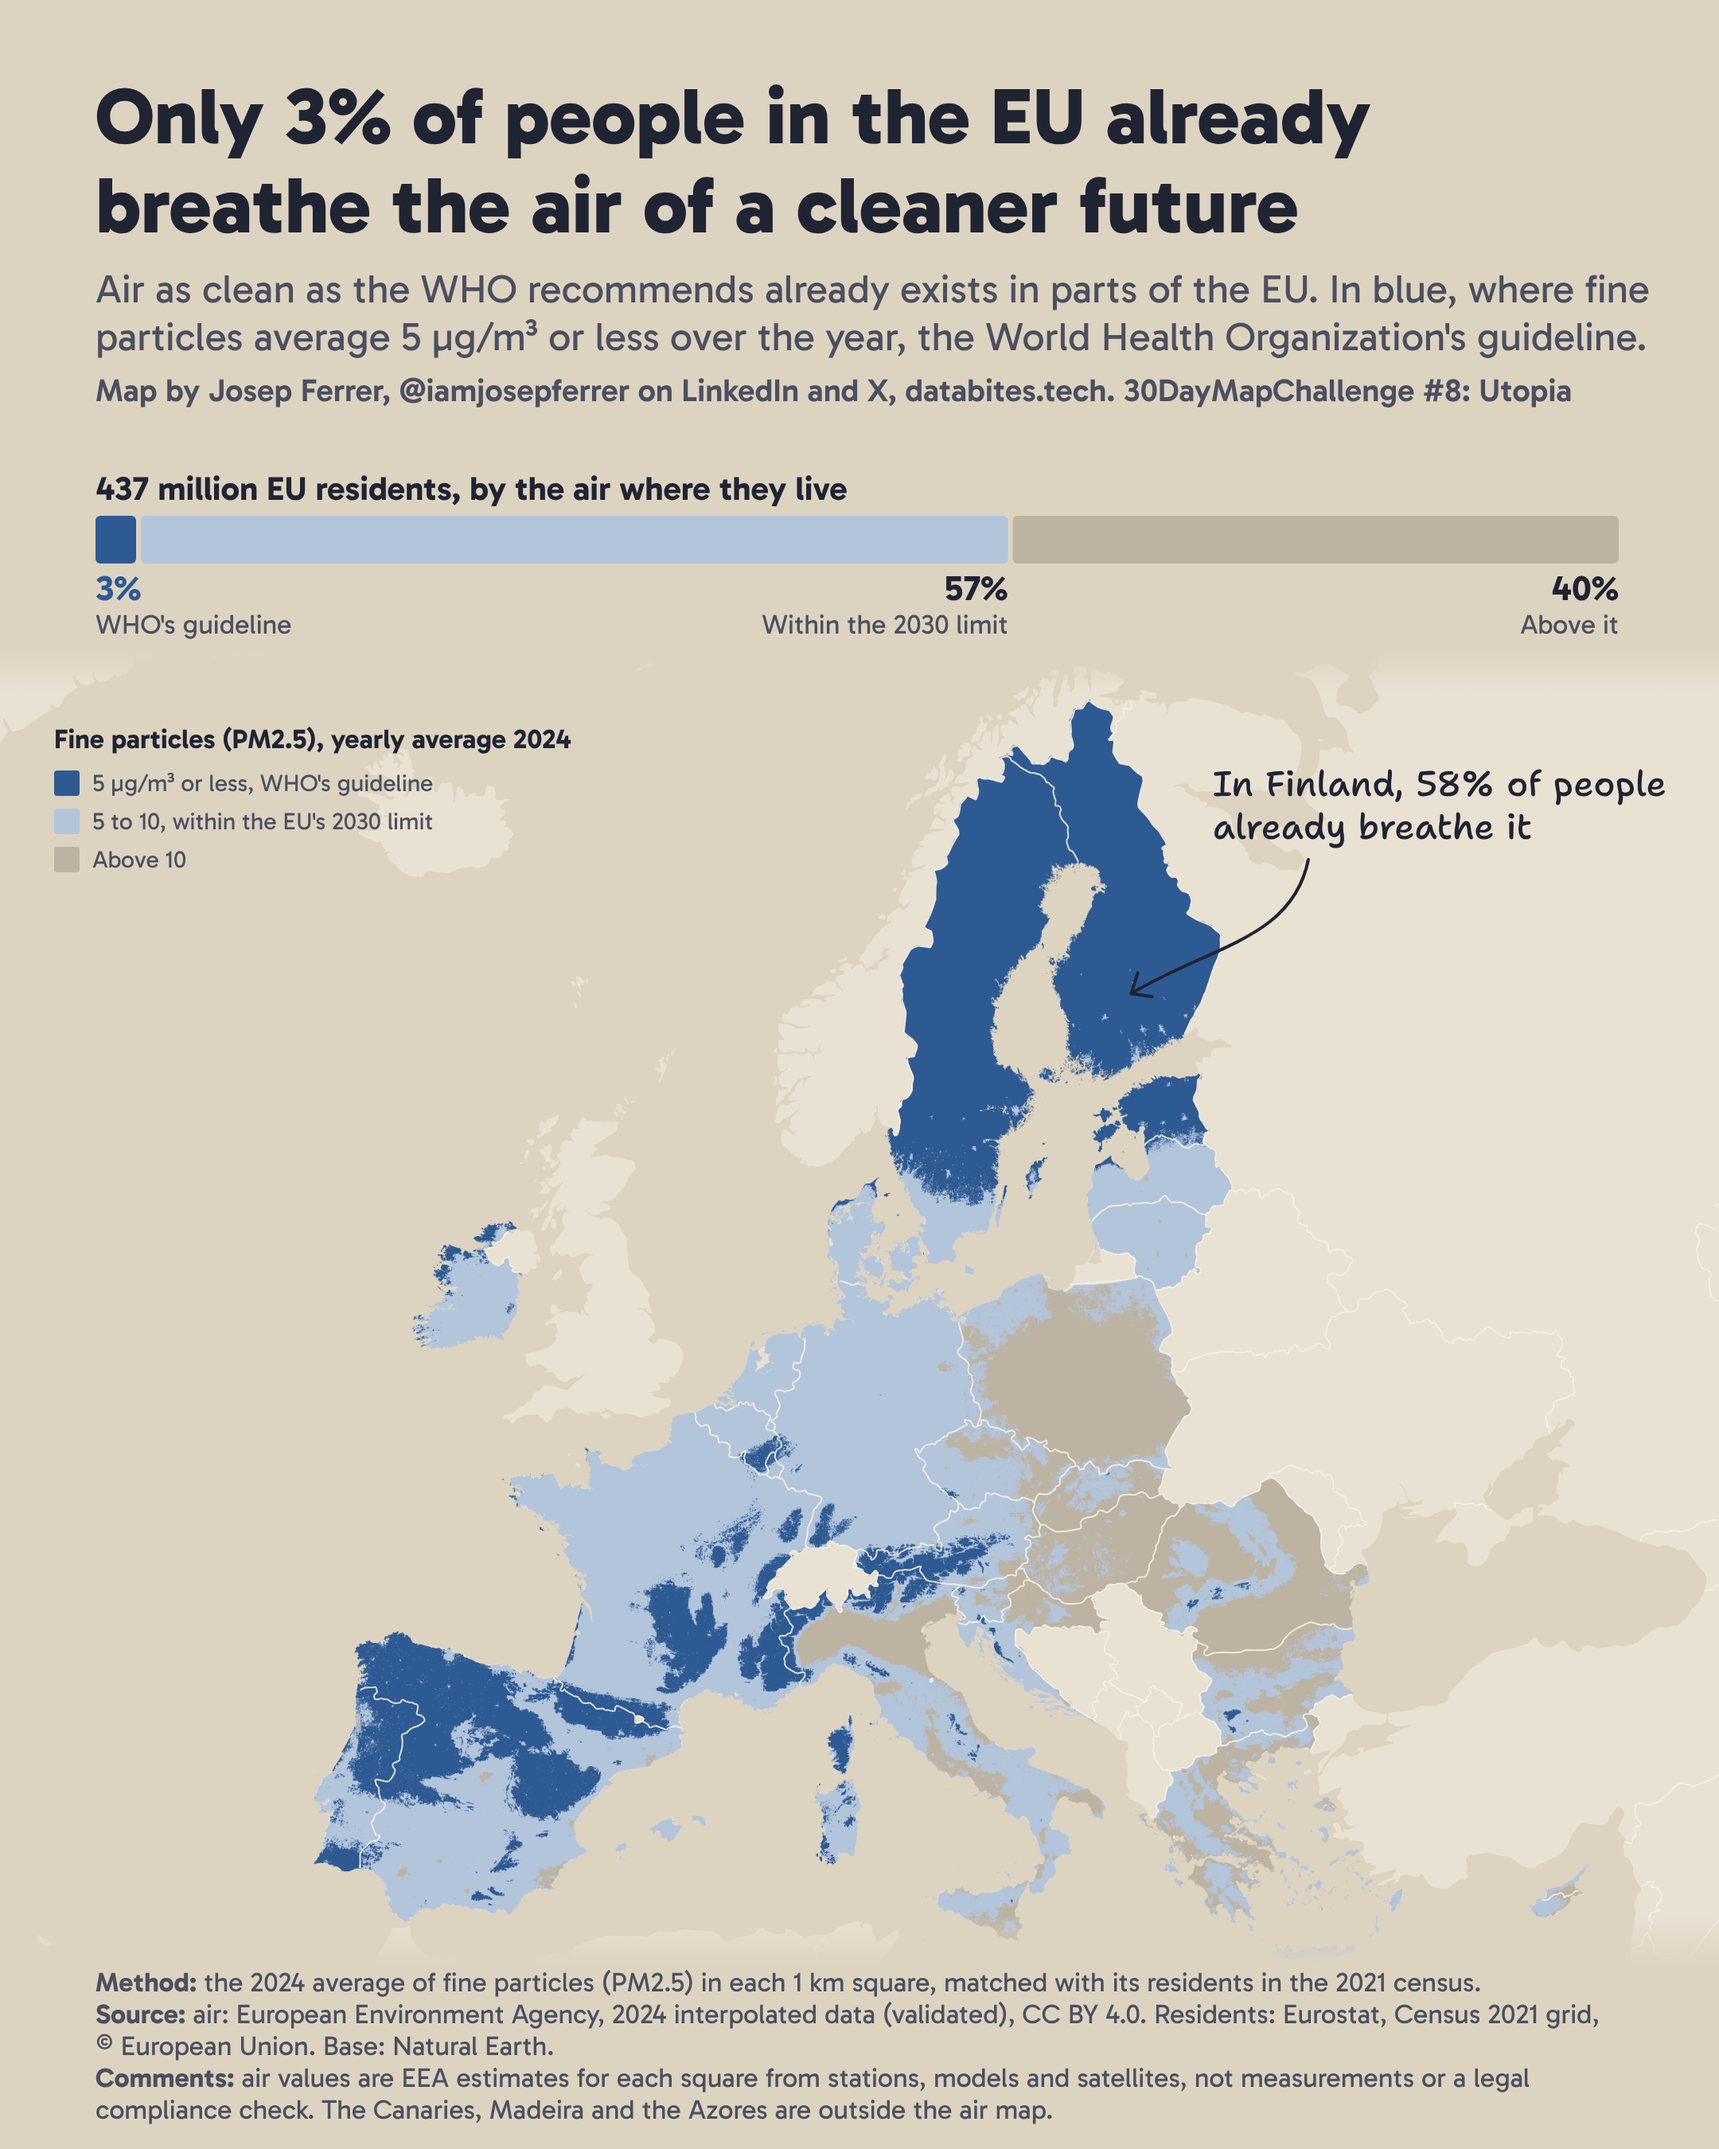
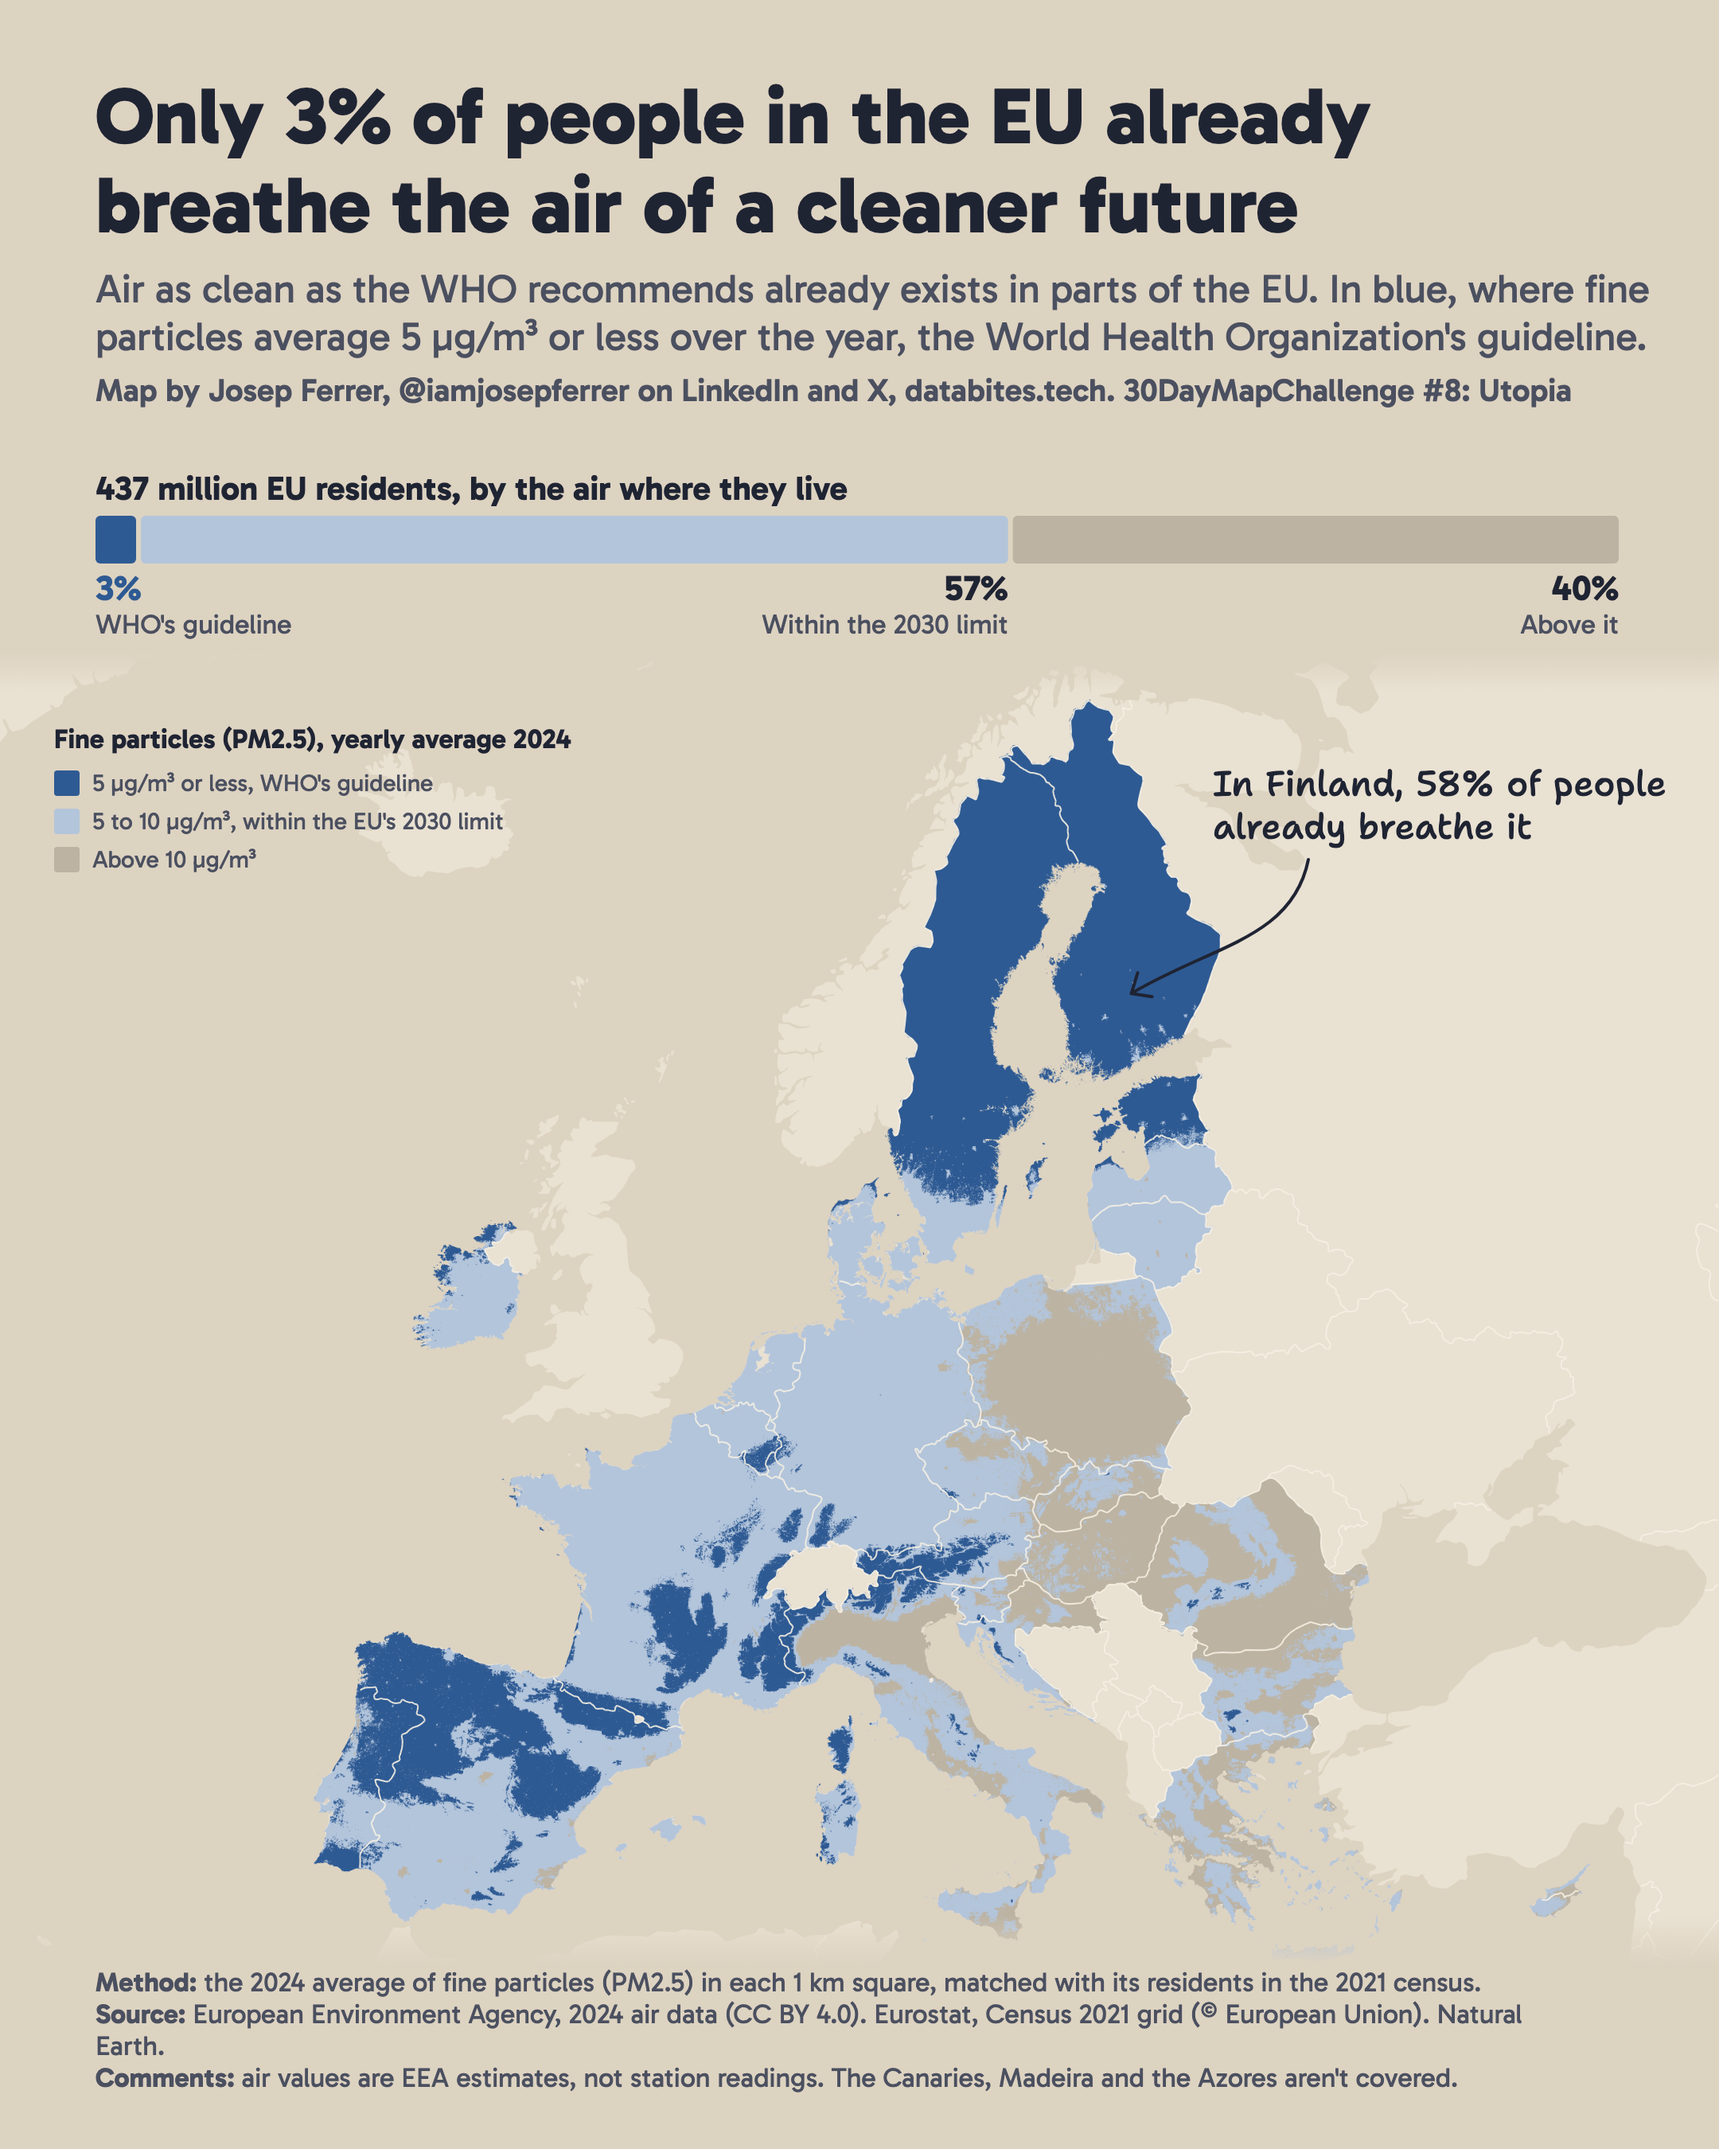
day 8: updating comments, sources and legends

Changed region(s): [[0.062, 0.9333, 0.9306, 0.9956], [0.0931, 0.3733, 0.2792, 0.4044]]

diff --git a/2026/day08_utopia/day08_utopia.py b/2026/day08_utopia/day08_utopia.py
@@ -120,8 +120,8 @@ to_map = Transformer.from_crs(4326, 3035, always_xy=True)
 LX, LY = 34, 470
 svg.append(text(LX, LY, "Fine particles (PM2.5), yearly average 2024", 17, 700))
 for i, (colour, label) in enumerate(((C["blue"], f"{WHO} µg/m³ or less, WHO's guideline"),
-                                      (LIGHT_BLUE, f"{WHO} to {EU_2030}, within the EU's 2030 limit"),
-                                      (GREY, f"Above {EU_2030}"))):
+                                      (LIGHT_BLUE, f"{WHO} to {EU_2030} µg/m³, within the EU's 2030 limit"),
+                                      (GREY, f"Above {EU_2030} µg/m³"))):
     y = LY + 14 + i * 24
     svg.append(f'<rect x="{LX}" y="{y}" width="16" height="16" rx="2" fill="{colour}"/>')
     svg.append(text(LX + 24, y + 13, label, 15, 400, C["ink2"]))
@@ -159,8 +159,8 @@ svg.append(text(60, 220, f"particles average {WHO} µg/m³ or less over the year
 svg.append(byline(252, "30DayMapChallenge #8: Utopia"))
 FOOTER = [
     ("Method:", "the 2024 average of fine particles (PM2.5) in each 1 km square, matched with its residents in the 2021 census."),
-    ("Source:", "air: European Environment Agency, 2024 interpolated data (validated), CC BY 4.0. Residents: Eurostat, Census 2021 grid, © European Union. Base: Natural Earth."),
-    ("Comments:", "air values are EEA estimates for each square from stations, models and satellites, not measurements or a legal compliance check. The Canaries, Madeira and the Azores are outside the air map."),
+    ("Source:", "European Environment Agency, 2024 air data (CC BY 4.0). Eurostat, Census 2021 grid (© European Union). Natural Earth."),
+    ("Comments:", "air values are EEA estimates, not station readings. The Canaries, Madeira and the Azores aren't covered."),
 ]
 svg += footer(FOOTER, x=60, y=1251, width=960, size=17, line_height=20)
 save_png(page("".join(svg)), HERE / "day08_utopia.png")
